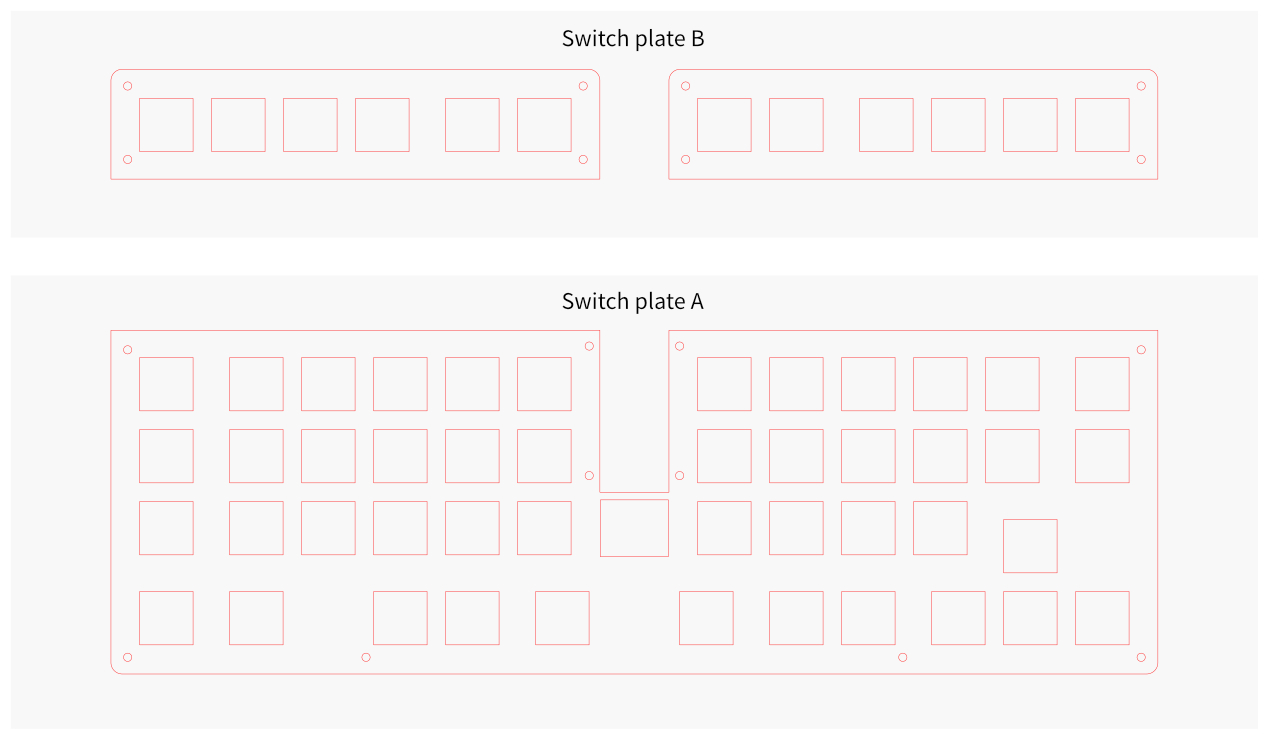
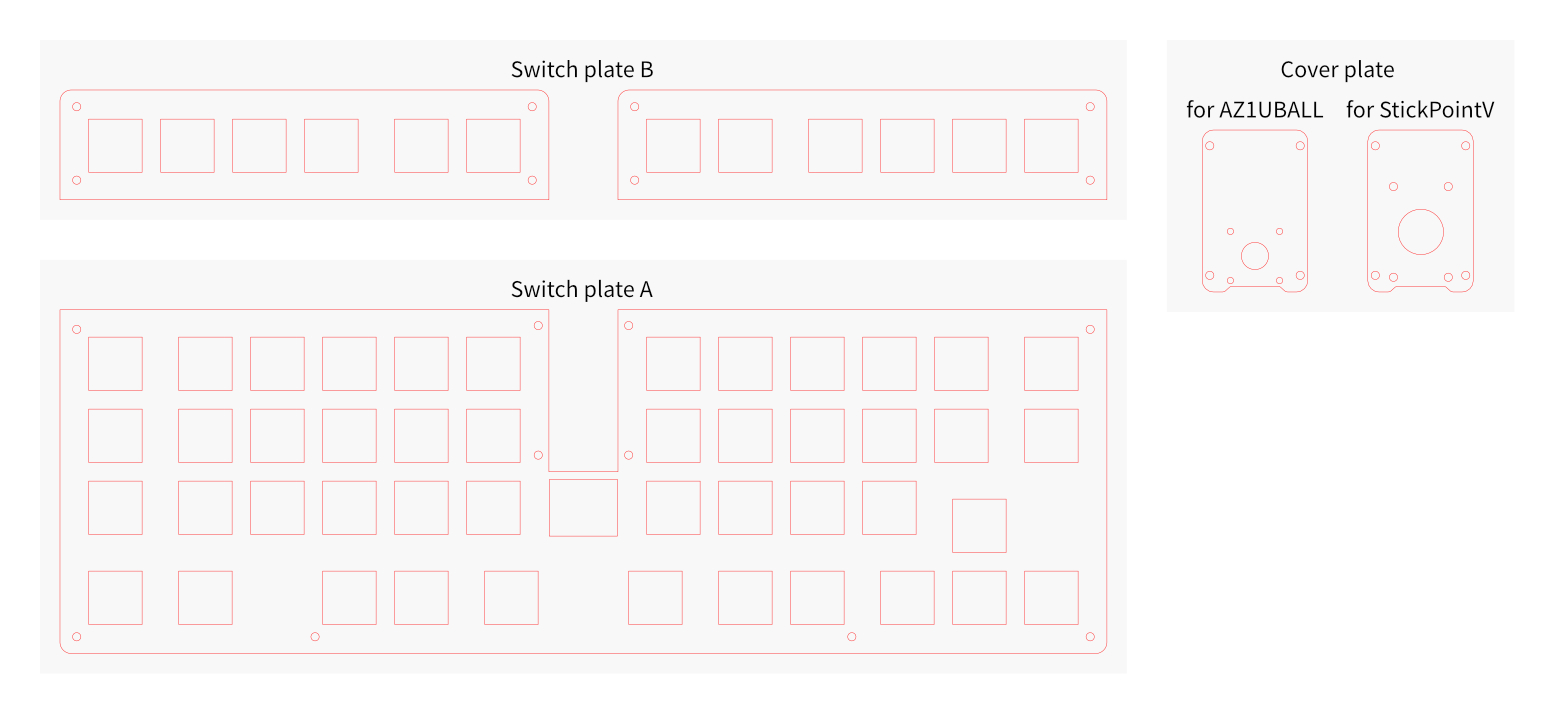
update

diff --git a/hardware/plate/README.md b/hardware/plate/README.md
@@ -1,1 +1,10 @@
+## Recommended format
+Name                        |Material |Thickness      |Notes
+----------------------------|---------|---------------|-----
+Switch plate A              |-        |1.6mm or 2.0mm |
+Switch plate B              |-        |1.6mm or 2.0mm |
+Bottom plate                |-        |1.2mm - 2.0mm  |
+Cover plate for AZ1UBALL    |FR4      |1.0mm - 1.2mm  |
+Cover plate for StickPointV |-        |1.6mm or 2.0mm |
+
 <img src="../../img/plate/plate-overview_01.jpg" width="80%">
